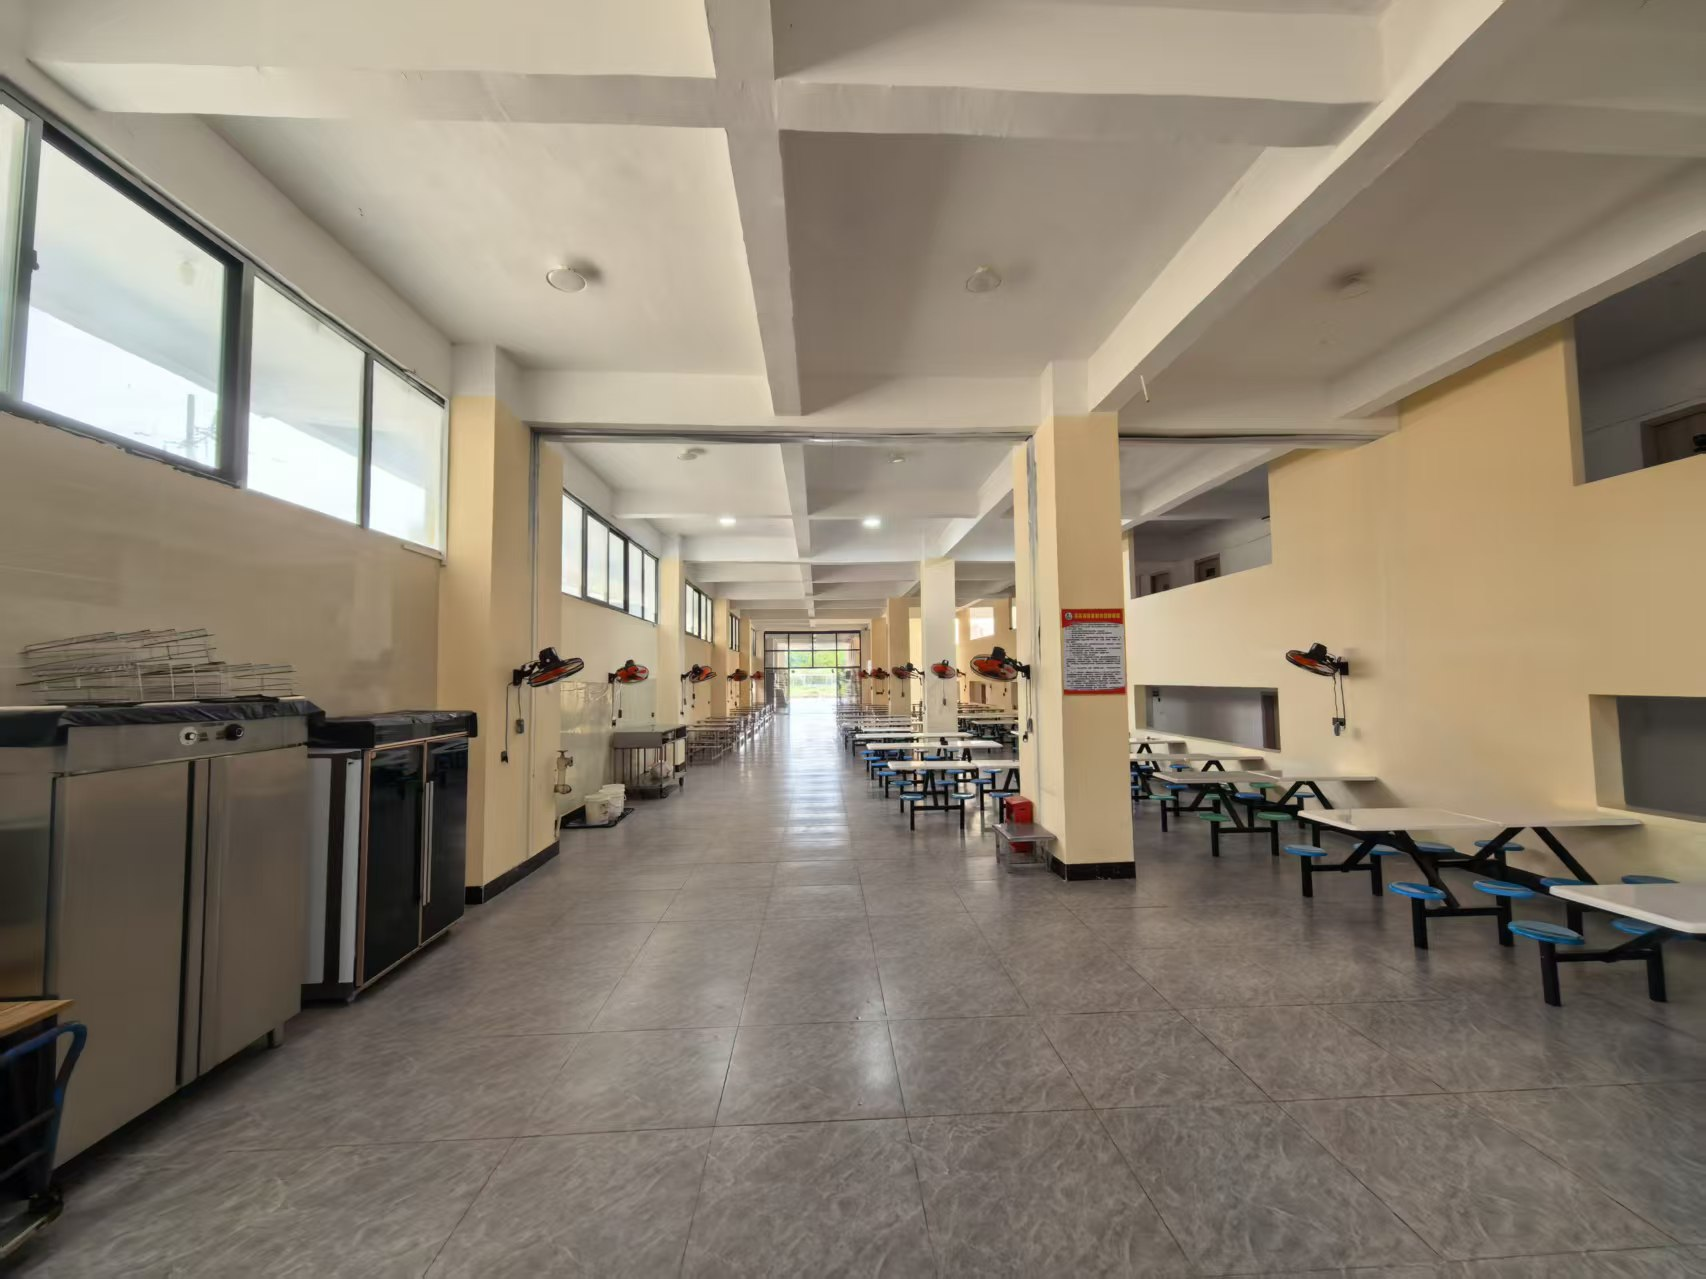
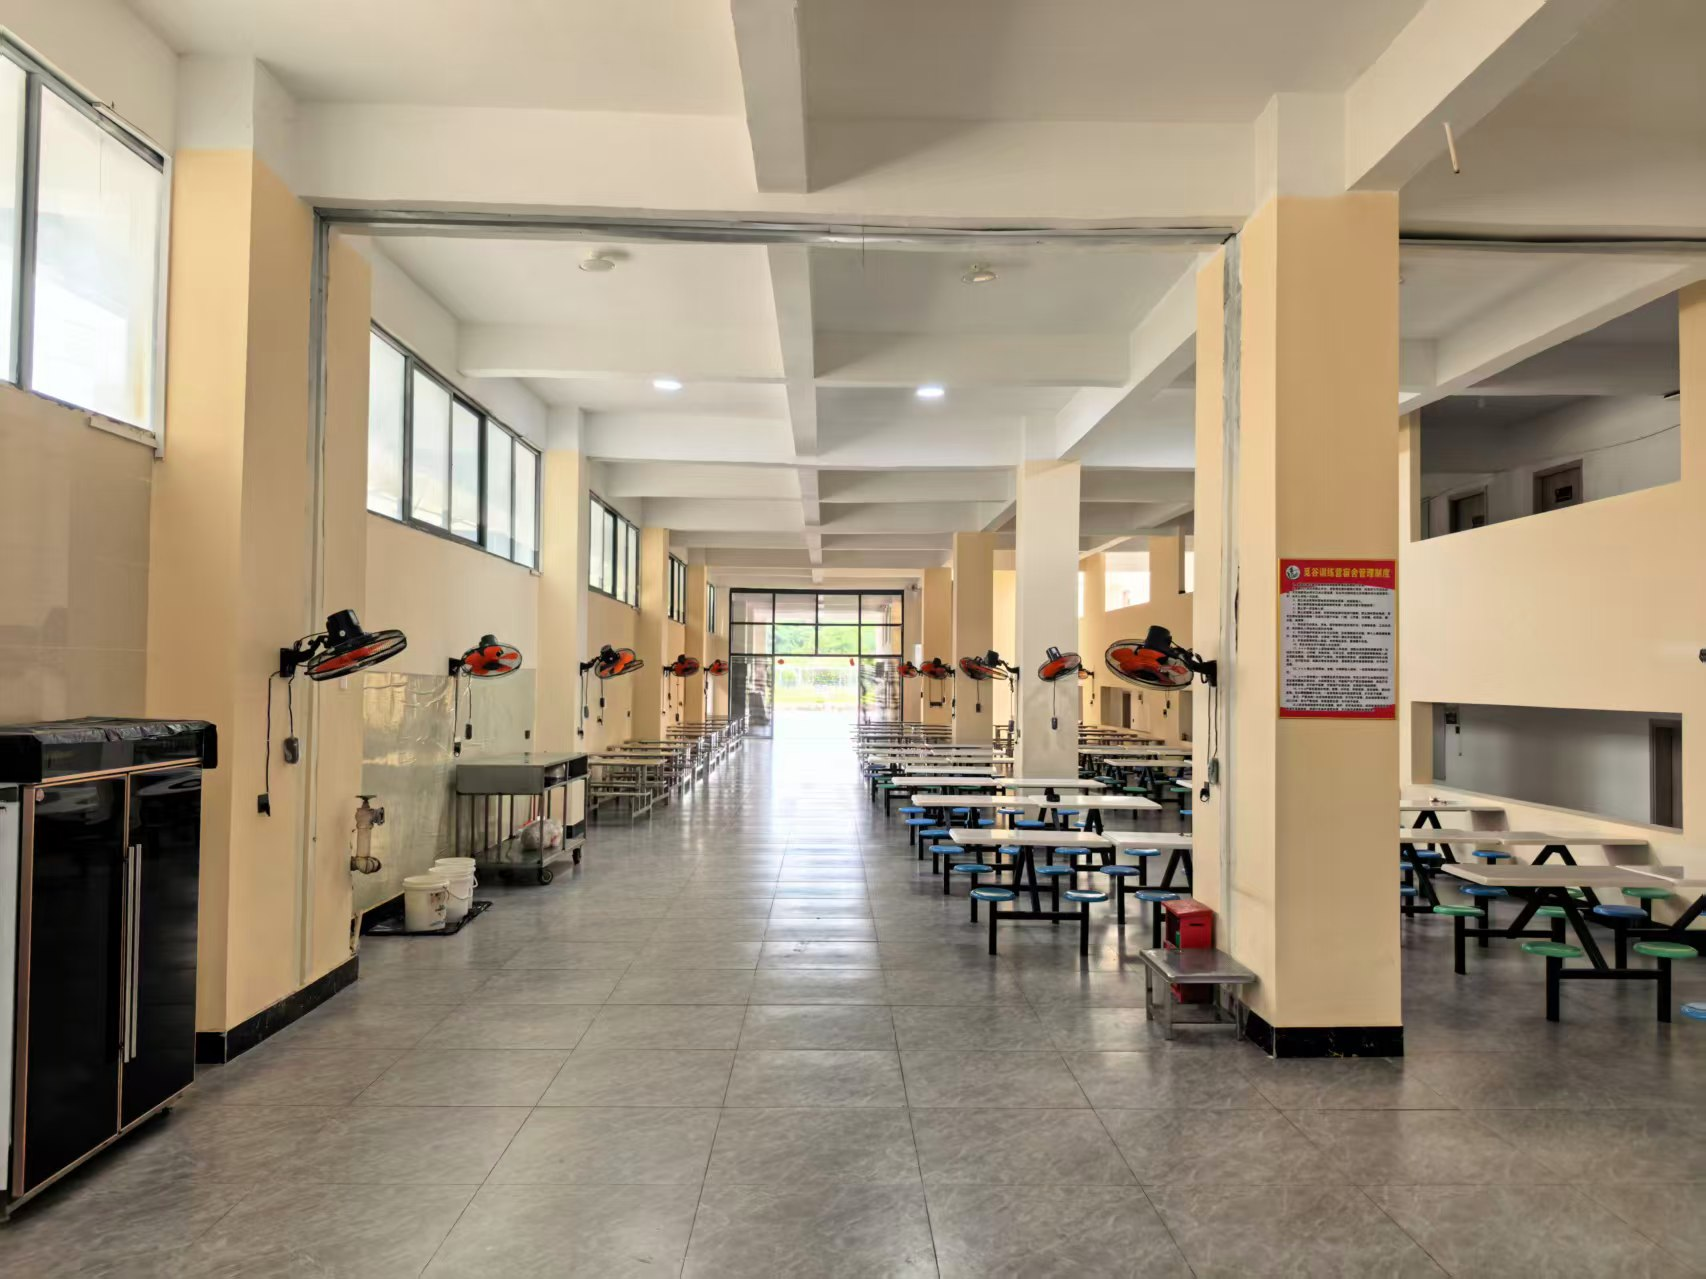
fix: 优化

diff --git a/index.html b/index.html
@@ -148,8 +148,8 @@
         <div class="office-card"><img src="/image/office-area/office-area2.jpg" alt="百人动感单车炸裂氛围" loading="lazy" decoding="async"><p>百人动感单车炸裂氛围</p></div>
         <div class="office-card"><img src="/image/office-area/office-area3.jpg" alt="百人操课台，采光通风拉满" loading="lazy" decoding="async"><p>百人操课台，采光通风拉满</p></div>
         <div class="office-card"><img src="/image/office-area/office-area4.jpg" alt="有氧区跑步机、椭圆机、爬楼机、划船机" loading="lazy" decoding="async"><p>有氧区跑步机、椭圆机、爬楼机、划船机</p></div>
-        <div class="office-card"><img src="/image/office-area/office-area5.jpg" alt="器械区1   免费私教指导教学" loading="lazy" decoding="async"><p>器械区1  免费私教指导教学</p></div>
-        <div class="office-card"><img src="/image/office-area/office-area6.jpg" alt="器械区2  免费私教指导教学" loading="lazy" decoding="async"><p>器械区2  免费私教指导教学</p></div>
+        <div class="office-card"><img src="/image/office-area/office-area5.jpg" alt="器械区1   免费私教指导教学" loading="lazy" decoding="async"><p>器械区  免费私教指导教学</p></div>
+        <div class="office-card"><img src="/image/office-area/office-area12.jpg" alt="娱乐、棋牌室" loading="lazy" decoding="async"><p>娱乐、棋牌室</p></div>
         <div class="office-card"><img src="/image/office-area/office-area10.jpg" alt="健康指标检测室" loading="lazy" decoding="async"><p>人体成分与健康体测中心</p></div>
         <div class="office-card"><img src="/image/office-area/office-area11.jpg" alt="免费不限量停车" loading="lazy" decoding="async"><p>免费不限量停车</p></div>
         <div class="office-card"><img src="/image/office-area/office-area12.jpg" alt="福建最大型封闭式营区" loading="lazy" decoding="async"><p>福建最大型封闭式营区：周边无外卖小吃，管住嘴、迈开腿高效蜕变！</p></div>
